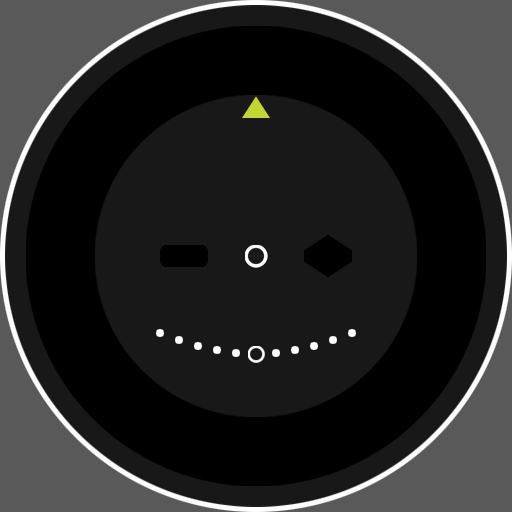
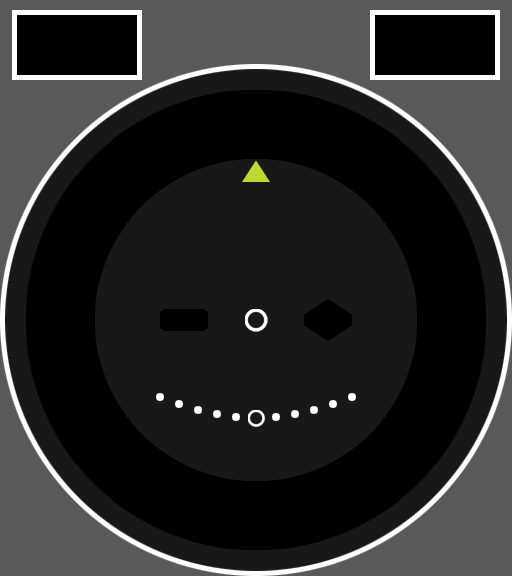
Added font display, corrected wheel rotation

diff --git a/VOR/src/vor/Display.java b/VOR/src/vor/Display.java
@@ -25,17 +25,22 @@ import java.awt.event.KeyListener;
 
 import javax.swing.JPanel;
 
-public abstract class Display extends JPanel implements KeyListener {
+public class Display extends JPanel implements KeyListener {
 
 	private static final long serialVersionUID = 1L;
+	
+	private VOR vor;
 
 	private boolean to, good;
 
 	public Display() {
+		
+		vor = new VOR();
+		
 		to = true;
 		good = true;
 		
-		Resources.loadImages(new String[] {"base", "obs", "wheel", "to", "from", "good", "bad"});
+		Resources.loadImages(new String[] {"base", "obs", "wheel", "to", "from", "good", "bad", "font"});
 		
 		addKeyListener(this);
 		setFocusable(true);
@@ -44,7 +49,7 @@ public abstract class Display extends JPanel implements KeyListener {
 
 	@Override
 	public Dimension getPreferredSize() {
-		return new Dimension(512, 512);
+		return new Dimension(512, 576);
 	}
 
 	@Override
@@ -57,11 +62,13 @@ public abstract class Display extends JPanel implements KeyListener {
 		
 		Gfx.create(g)
 				.drawImage(this, "base", 0, 0)
-				.drawImageRotated(this, "obs", 7, 406, obsDegrees)
-				.drawImageRotated(this, "wheel", 0, 0, wheelDegrees)
-				.drawImage(this, to ? "to" : "from", 305, 235)
-				.drawImage(this, good ? "good" : "bad", 160, 245)
-				.drawRay(256, 128, 257, 90 + (5 * needleDegrees / 2), 6, Color.WHITE)
+				.drawImageRotated(this, "obs", 7, 470, obsDegrees)
+				.drawImageRotated(this, "wheel", 0, 64, wheelDegrees)
+				.drawImage(this, to ? "to" : "from", 305, 299)
+				.drawImage(this, good ? "good" : "bad", 160, 309)
+				.drawRay(256, 192, 257, 90 + (5 * needleDegrees / 2), 6, Color.WHITE)
+				.drawText(this, "font", 33, 25, String.format("%03d", 360 - (int)wheelDegrees))
+				.drawText(this, "font", 391, 25, "GWC")
 				.flush();
 	}
 
@@ -87,7 +94,17 @@ public abstract class Display extends JPanel implements KeyListener {
 		
 	}
 	
-	public abstract void onRotateOBS(int delta);
-	public abstract int fetchDesiredHeading();
-	public abstract int fetchNeedleAngle();
+	public void onRotateOBS(int delta) {
+		vor.rotateOBS(delta);
+		this.repaint();
+	}
+	
+	public int fetchDesiredHeading() {
+		// Oddly, Swing rotates components opposite of our display rotation, so we need to do 360 - desired here
+		return 360 - vor.getDesired();
+	}
+	
+	public int fetchNeedleAngle() {
+		return -vor.getNeedle();
+	}
 }

diff --git a/VOR/src/vor/Gfx.java b/VOR/src/vor/Gfx.java
@@ -53,6 +53,14 @@ public class Gfx {
 		return this;
 	}
 	
+	public Gfx drawImage(ImageObserver context, String key, int x, int y, int sx, int sy, int w, int h) {
+		BufferedImage image = Resources.image(key);
+		if (image != null) {
+			g2d.drawImage(image.getSubimage(sx, sy, w, h), x, y, context);
+		}
+		return this;
+	}
+	
 	public Gfx drawImageRotated(ImageObserver context, String key, int x, int y, double degrees) {
 		BufferedImage image = Resources.image(key);
 		if (image != null) {
@@ -73,6 +81,22 @@ public class Gfx {
 		int a = x + (int) (length * Math.cos(rad));
 		int b = y + (int) (length * Math.sin(rad));
 		g2d.drawLine(x, y, a, b);
+		return this;
+	}
+	
+	public Gfx drawText(ImageObserver context, String font, int x, int y, String text) {
+		BufferedImage f = Resources.image(font);
+		if (f != null) {
+			String fontmap = "ABCDEFGHIJKLMNOPQRSTUVWXYZ0123456789";
+			text = text.toUpperCase();
+			for (int i = 0; i < text.length(); i++) {
+				int token = fontmap.indexOf(text.charAt(i));
+				if (token != -1) {
+					g2d.drawImage(f.getSubimage(token * 25, 0, 25, 41), x, y, context);
+				}
+				x += 31;
+			}
+		}
 		return this;
 	}
 	

diff --git a/VOR/src/vor/App.java b/VOR/src/vor/App.java
@@ -38,8 +38,7 @@ import javax.swing.JTextPane;
 import javax.swing.KeyStroke;
 
 /**
- * Our desktop Java app. Manages references to the application-agnostic VOR
- * and our display classes, and handles ferrying information among them.
+ * Our desktop Java app.
  * 
  * @author William
  */
@@ -49,34 +48,11 @@ public class App {
 
 	private JFrame frame;
 	
-	private VOR vor;
 	private Display display;
 
 	public App() {
-		// Simulated radio
-		vor = new VOR();
-
 		// Our GUI
-		display = new Display() {
-			private static final long serialVersionUID = 1L;
-
-			@Override
-			public void onRotateOBS(int delta) {
-				vor.rotateOBS(delta);
-				display.repaint();
-			}
-
-			@Override
-			public int fetchDesiredHeading() {
-				// Oddly, Swing rotates components opposite of our display rotation, so we need to do 360 - desired here
-				return 360 - vor.getDesired();
-			}
-
-			@Override
-			public int fetchNeedleAngle() {
-				return vor.getNeedle();
-			}
-		};
+		display = new Display();
 		
 		// Make actual frame
 		initializeFrame();

diff --git a/VOR/src/vor/VOR.java b/VOR/src/vor/VOR.java
@@ -54,10 +54,12 @@ public class VOR {
 	}
 	
 	public int getDesired() {
+		//System.out.println(desired);
 		return desired;
 	}
 	
 	public int getNeedle() {
+		//System.out.println(needle);
 		return needle;
 	}
 }
